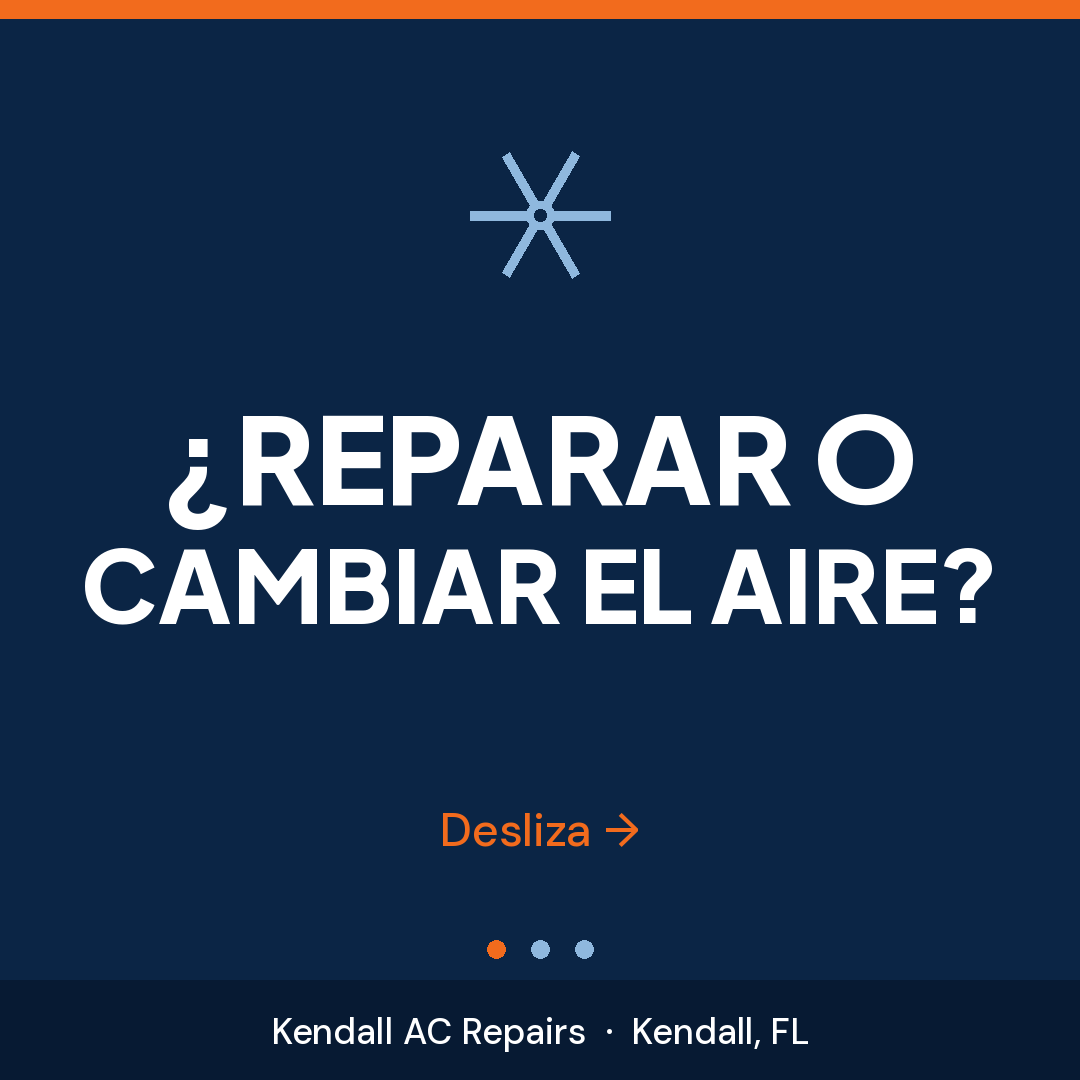
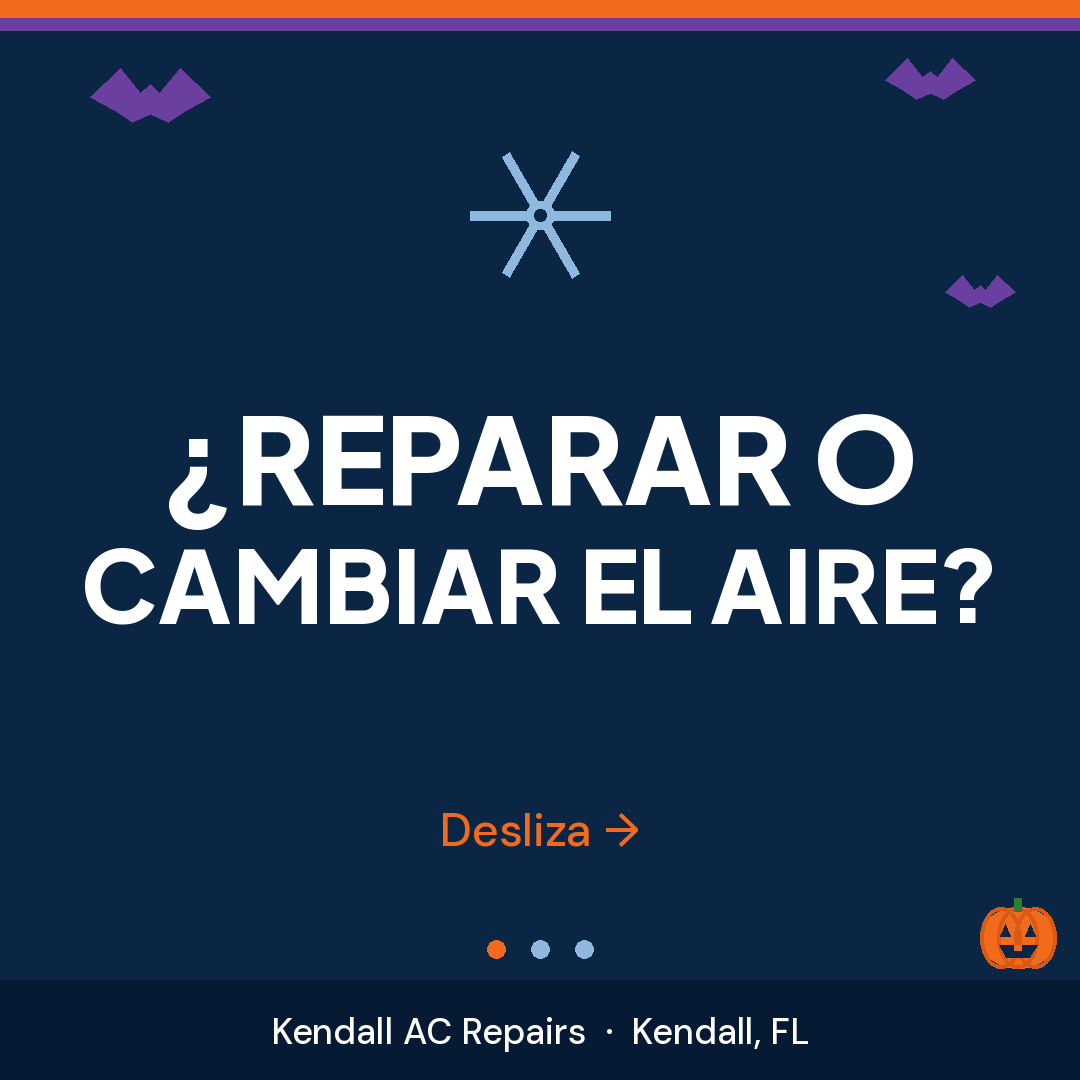
Tema Halloween en carteles (TEMA=halloween) + carteles de temporada
Claude-Session: https://claude.ai/code/session_01DEQWEdDr1AVw2JKJyE7F2k

diff --git a/cartel-redes.py b/cartel-redes.py
@@ -53,10 +53,40 @@ def center(d, y, text, f, fill):
     d.text(((1080 - d.textlength(text, font=f)) / 2, y), text, font=f, fill=fill)
 
 
+TEMA = os.environ.get("TEMA", "")  # "" o "halloween"
+PURPLE = "#6b3fa0"
+
+
+def pumpkin(d, cx, cy, r):
+    d.ellipse([cx - r, cy - r * 0.8, cx + r, cy + r * 0.8], fill=ORANGE)
+    for k in (-0.45, 0, 0.45):
+        d.arc([cx + k * r - r * 0.55, cy - r * 0.8, cx + k * r + r * 0.55, cy + r * 0.8], 0, 360, fill="#d95a12", width=4)
+    d.rectangle([cx - r * 0.08, cy - r * 1.05, cx + r * 0.08, cy - r * 0.7], fill="#2e7d32")
+    e = r * 0.22
+    d.polygon([(cx - r * 0.45, cy - r * 0.05), (cx - r * 0.2, cy - r * 0.05), (cx - r * 0.33, cy - r * 0.35)], fill=NAVY)
+    d.polygon([(cx + r * 0.45, cy - r * 0.05), (cx + r * 0.2, cy - r * 0.05), (cx + r * 0.33, cy - r * 0.35)], fill=NAVY)
+    d.polygon([(cx - r * 0.5, cy + r * 0.2), (cx + r * 0.5, cy + r * 0.2), (cx + r * 0.3, cy + r * 0.5), (cx - r * 0.3, cy + r * 0.5)], fill=NAVY)
+    d.rectangle([cx - r * 0.1, cy + r * 0.2, cx + r * 0.1, cy + r * 0.32], fill=ORANGE)
+
+
+def bat(d, cx, cy, w):
+    h = w * 0.35
+    d.polygon([(cx - w / 2, cy - h * 0.3), (cx - w * 0.25, cy - h), (cx - w * 0.08, cy - h * 0.4), (cx, cy - h * 0.6),
+               (cx + w * 0.08, cy - h * 0.4), (cx + w * 0.25, cy - h), (cx + w / 2, cy - h * 0.3),
+               (cx + w * 0.3, cy), (cx + w * 0.15, cy + h * 0.3), (cx, cy + h * 0.1),
+               (cx - w * 0.15, cy + h * 0.3), (cx - w * 0.3, cy)], fill=PURPLE)
+
+
 def base_canvas():
     im = Image.new("RGB", (1080, 1080), NAVY)
     d = ImageDraw.Draw(im)
     d.rectangle([0, 0, 1080, 18], fill=ORANGE)
+    if TEMA == "halloween":
+        d.rectangle([0, 18, 1080, 30], fill=PURPLE)
+        bat(d, 150, 110, 120)
+        bat(d, 930, 90, 90)
+        bat(d, 980, 300, 70)
+        pumpkin(d, 1018, 938, 38)
     return im, d
 
 
